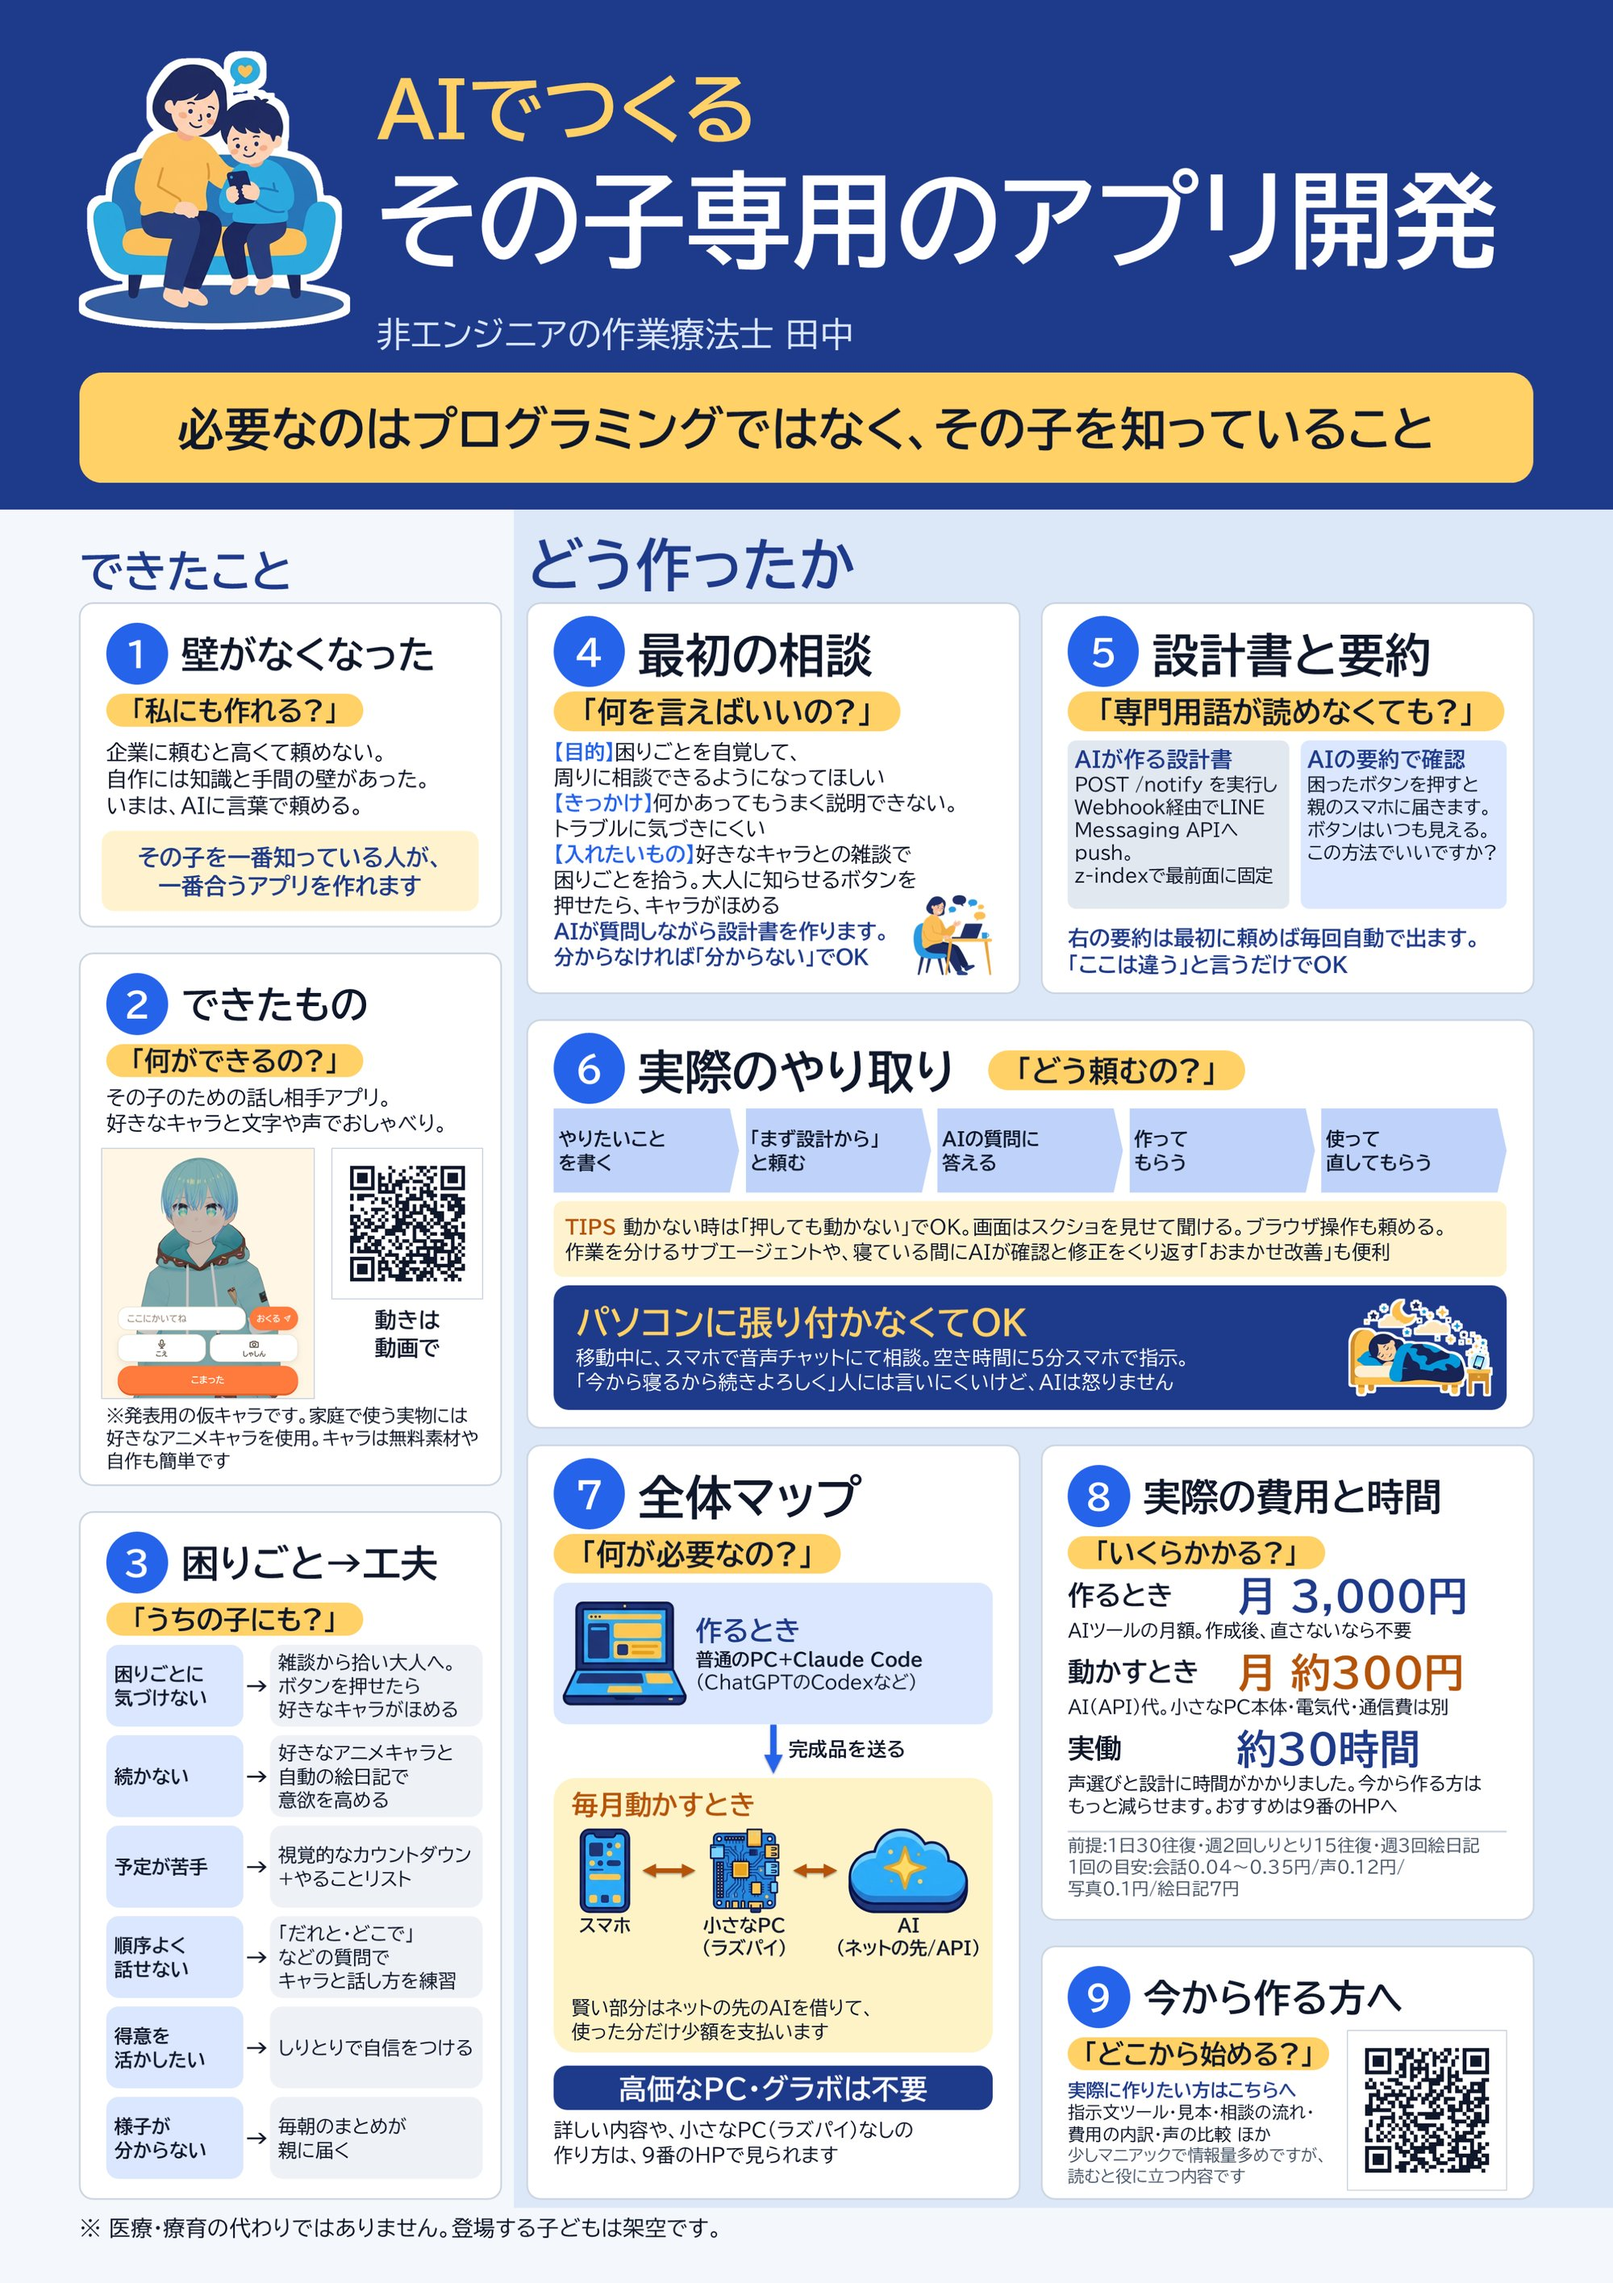
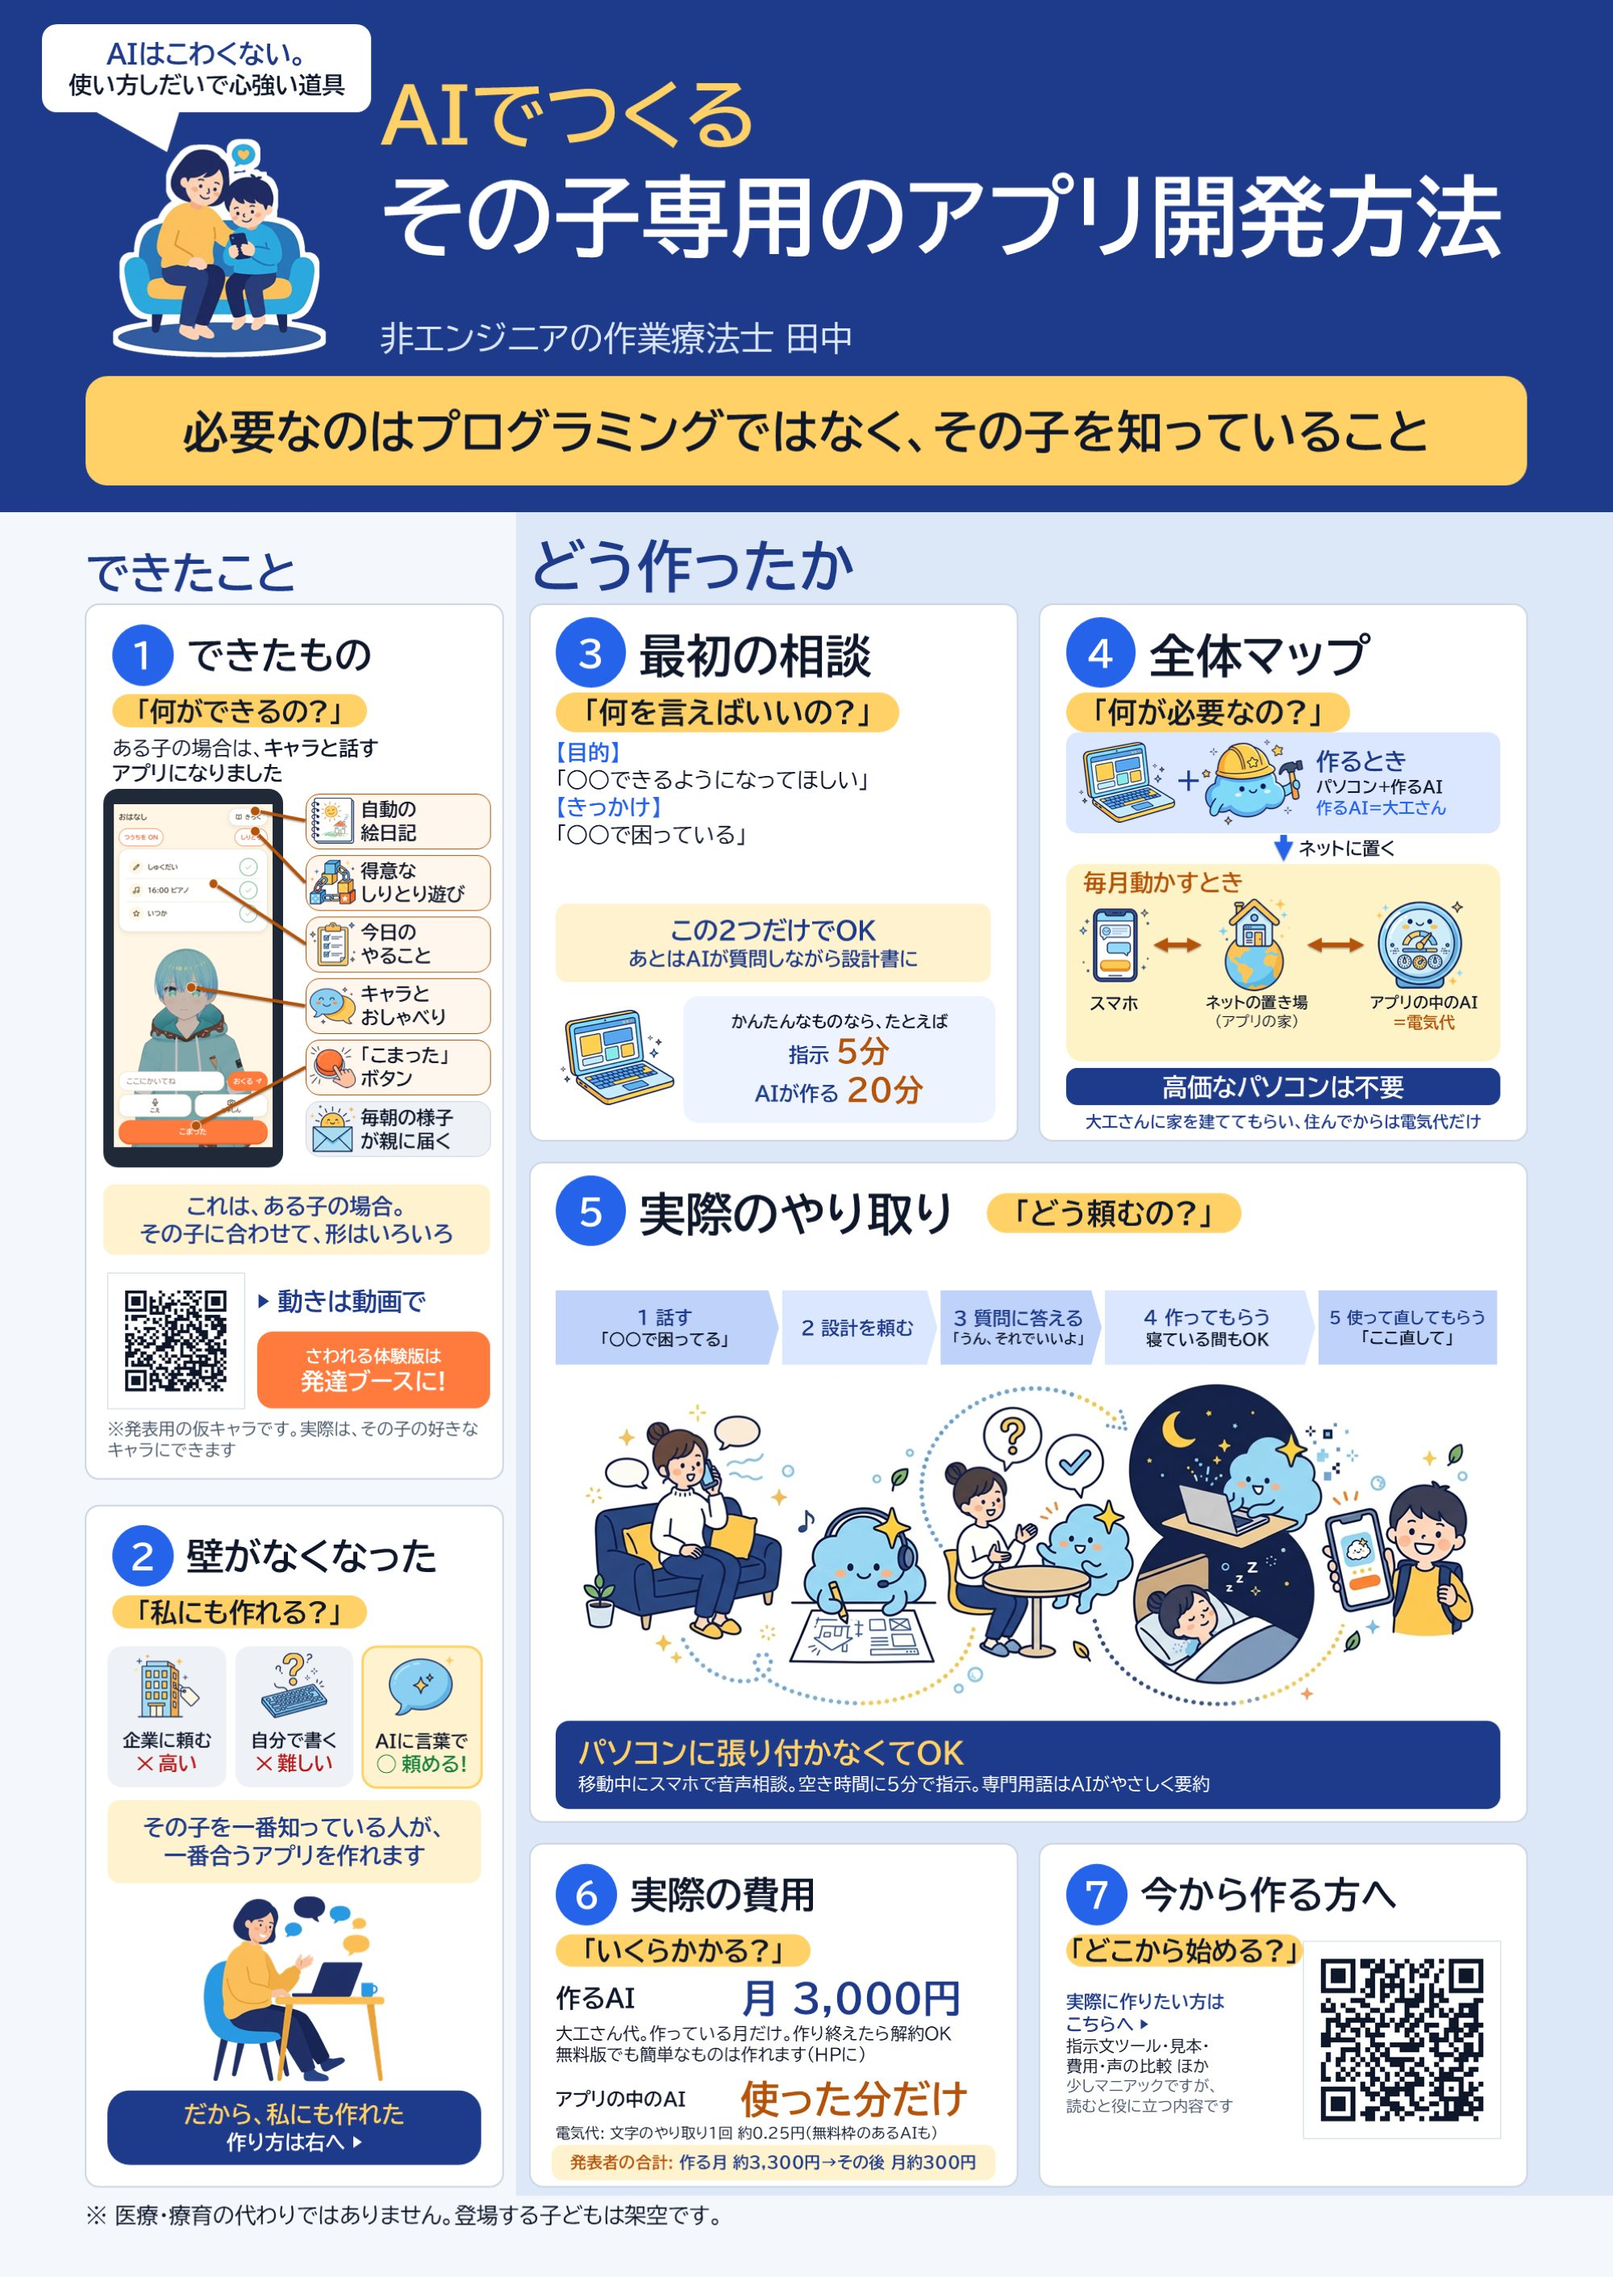
poster2026: ポスター画像を第6版に差しかえ
Claude-Session: https://claude.ai/code/session_01APpjXwxJXk4MbEJzaDaf7Q

diff --git a/poster2026/index.html b/poster2026/index.html
@@ -238,7 +238,7 @@ footer{font-size:.92rem;color:var(--muted);margin-top:22px}
   <a class="vlink" href="video.html"><img src="img/app.jpg" alt="アプリの画面" width="720" height="847"><span><b>▶ 動画を見る</b>別のページで開きます。音が出ます。</span></a>
   <h3>実際のポスター</h3>
   <p class="muted">会場(2026年11月13日・14日)に貼ったポスターです。押すと大きな画像で開きます。</p>
-  <a class="poster" href="img/poster_l.jpg"><img src="img/poster_s.jpg" alt="ポスターの全体。題名「AIでつくる その子専用のアプリ開発」。できたこと・どう作ったか・費用などの9つの枠" width="720" height="1019"></a>
+  <a class="poster" href="img/poster_l.jpg"><img src="img/poster_s.jpg" alt="ポスターの全体。題名「AIでつくる その子専用のアプリ開発方法」。できたもの・最初の相談・全体マップ・実際のやり取り・費用などの7つの枠" width="720" height="1016"></a>
   <p class="back"><a href="#toc">▲ 中身の一覧へ</a></p>
 </section>
 
